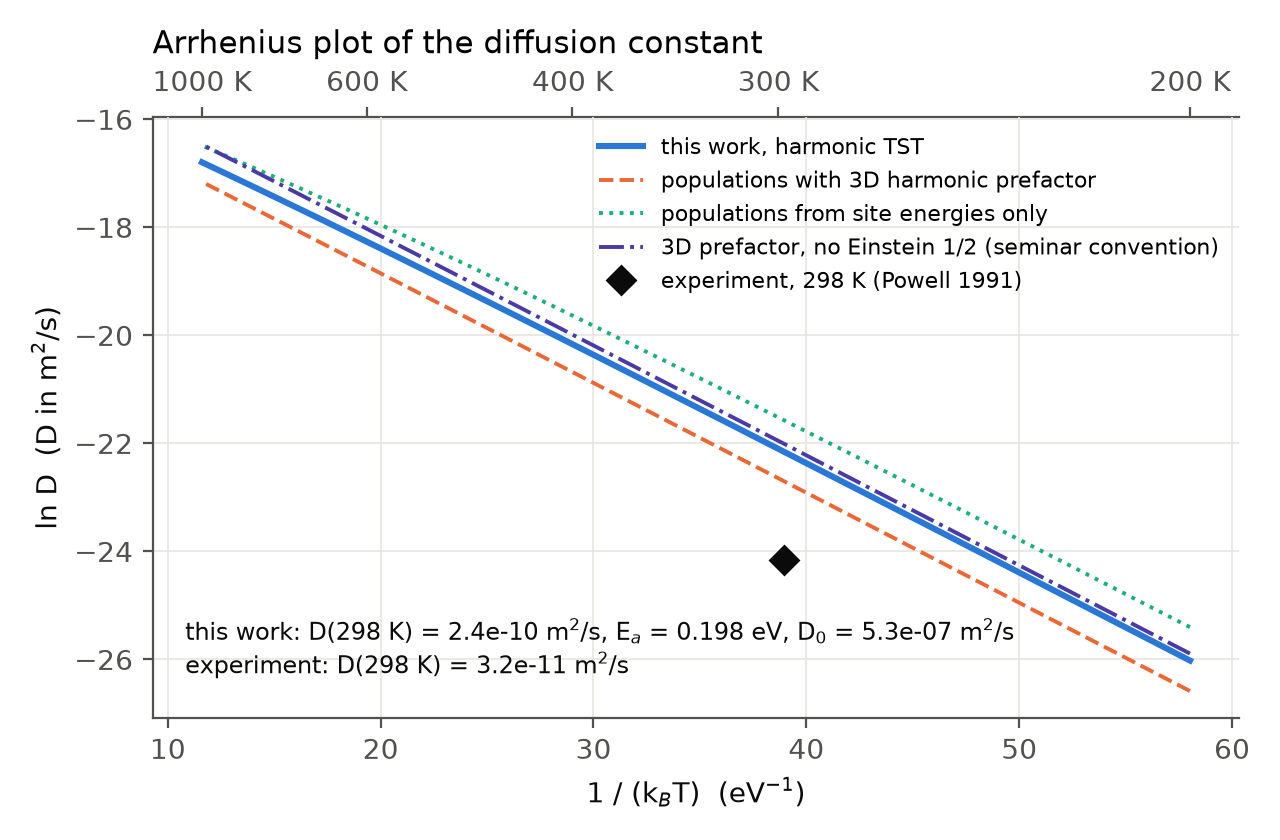
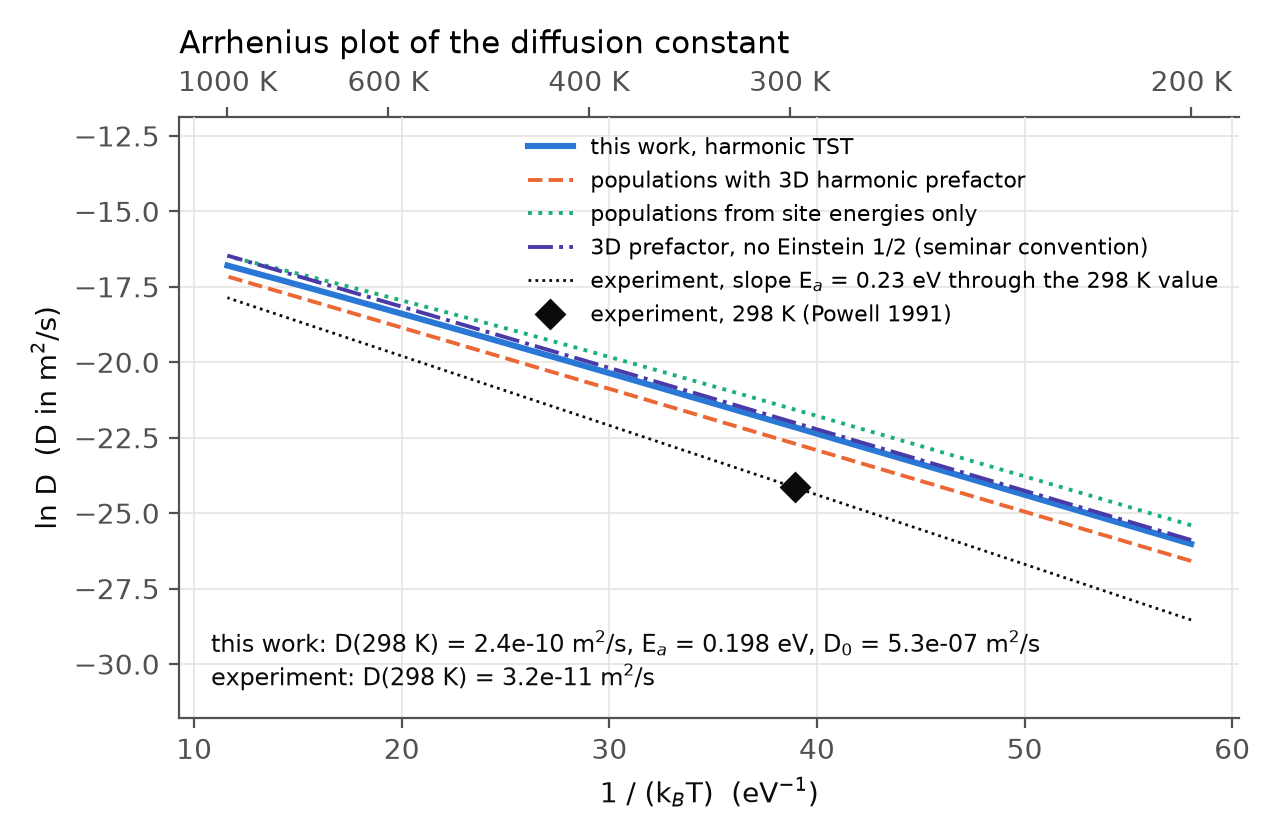
Barrier curvature, Wigner and well-mode quantum estimates, comparison with experiment split into barrier and prefactor

diff --git a/scripts/analyze_diffusion.py b/scripts/analyze_diffusion.py
@@ -19,6 +19,7 @@ from pdhdiff.constants import (
     A_PD_ANG,
     D_EXP_298K_M2_S,
     EA_EXP_EV,
+    KB_EV,
     MASS_D_AMU,
     MASS_H_AMU,
     MASS_T_AMU,
@@ -35,9 +36,12 @@ from pdhdiff.tst import (
     SiteModel,
     arrhenius_fit,
     attempt_frequency,
+    crossover_temperature,
     diffusion_constant,
     force_constant_si,
+    quantum_well_factor,
     vibrational_quantum_mev,
+    wigner_correction,
     with_mass,
 )
 
@@ -98,6 +102,63 @@ def sensitivity(
         "d_298K_single_factor_m2_s": single,
         "d_298K_min_m2_s": min(grid),
         "d_298K_max_m2_s": max(grid),
+    }
+
+
+def quantum_estimates(barrier, w_o: float, length: float) -> dict:
+    """Quantum corrections that the one-dimensional profile itself can supply.
+
+    The barrier curvature gives the imaginary frequency of the unstable mode and
+    with it the Wigner tunnelling factor and the crossover temperature; the
+    octahedral well frequency gives the quantum correction of the path mode. Both
+    factors multiply the O to T rate and therefore D, which is dominated by hops
+    out of the octahedral sites.
+    """
+    w_b = attempt_frequency(force_constant_si(barrier.k_ts_g_ev, length))
+    w_b_spline = attempt_frequency(force_constant_si(barrier.k_ts_spline_g_ev, length))
+    wigner = float(wigner_correction(w_b, 298.0))
+    well = float(quantum_well_factor(w_o, 298.0))
+    return {
+        "note": "Corrections to the classical O to T rate from the path mode only. Both are "
+        "larger than one, so they widen the gap to experiment; the zero-point energy of the "
+        "modes transverse to the path is not available from a one-dimensional profile.",
+        "barrier_curvature_eV_per_g2": {
+            "local_cubic": barrier.k_ts_g_ev,
+            "spline": barrier.k_ts_spline_g_ev,
+        },
+        "hbar_omega_barrier_meV": {
+            "local_cubic": vibrational_quantum_mev(w_b),
+            "spline": vibrational_quantum_mev(w_b_spline),
+        },
+        "crossover_temperature_K": crossover_temperature(w_b),
+        "wigner_factor_298K": wigner,
+        "wigner_factor_298K_spline_curvature": float(wigner_correction(w_b_spline, 298.0)),
+        "octahedral_well_factor_298K": well,
+        "combined_factor_298K": wigner * well,
+    }
+
+
+def experiment_decomposition(d_298: float, ea_fit: float, d0_fit: float) -> dict:
+    """Split the ratio to the measured D(298 K) into a barrier and a prefactor part.
+
+    The measured room-temperature value together with the quoted experimental
+    activation energy implies a prefactor ``D_0 = D exp(E_a / k_B T)``. The barrier
+    part is ``exp((E_a,exp - E_a,calc) / k_B T)`` at 298 K, the prefactor part is
+    the rest of the ratio.
+    """
+    kt = KB_EV * 298.0
+    ratio = d_298 / D_EXP_298K_M2_S
+    barrier_factor = float(np.exp((EA_EXP_EV - ea_fit) / kt))
+    d0_implied = float(D_EXP_298K_M2_S * np.exp(EA_EXP_EV / kt))
+    return {
+        "note": "Experimental prefactor implied by D(298 K) and the quoted activation energy; "
+        "it is not an independent measurement.",
+        "d0_experiment_implied_m2_s": d0_implied,
+        "d0_calc_over_implied": d0_fit / d0_implied,
+        "ea_deficit_meV": (EA_EXP_EV - ea_fit) * 1e3,
+        "factor_from_barrier_298K": barrier_factor,
+        "factor_from_prefactor_298K": ratio / barrier_factor,
+        "ratio_calc_over_experiment_298K": ratio,
     }
 
 
@@ -218,6 +279,8 @@ def main() -> None:
             ],
             "alternatives_d_298K_m2_s": {k: at(v, 298.0) for k, v in alternatives.items()},
         },
+        "comparison_with_experiment": experiment_decomposition(at(primary, 298.0), ea_fit, d0_fit),
+        "quantum_estimates": quantum_estimates(barrier, w_o, length),
         "sensitivity": sensitivity(model, barrier, well_o, well_t, float(e[-1]), length, geo),
         "isotopes_classical": {
             "note": "Classical harmonic TST with the same profile: only the attempt "
@@ -289,6 +352,18 @@ def main() -> None:
     )
     for name, res in alternatives.items():
         print(f"  alternative {name}: D(298 K) = {at(res, 298):.3e} m^2/s")
+    qe = metrics["quantum_estimates"]
+    print(
+        f"barrier mode: hbar w_b = {qe['hbar_omega_barrier_meV']['local_cubic']:.1f} meV, "
+        f"crossover T = {qe['crossover_temperature_K']:.0f} K, Wigner factor at 298 K = "
+        f"{qe['wigner_factor_298K']:.2f}, O well factor = {qe['octahedral_well_factor_298K']:.2f}"
+    )
+    ce = metrics["comparison_with_experiment"]
+    print(
+        f"ratio to experiment {ce['ratio_calc_over_experiment_298K']:.1f} = "
+        f"{ce['factor_from_barrier_298K']:.1f} (barrier) x "
+        f"{ce['factor_from_prefactor_298K']:.1f} (prefactor)"
+    )
     print(
         "detailed-balance ratio at 300 K: "
         f"{metrics['diffusion']['detailed_balance_ratio_300K']:.3f}"

diff --git a/src/pdhdiff/plotting.py b/src/pdhdiff/plotting.py
@@ -15,7 +15,13 @@ matplotlib.use("Agg")
 import matplotlib.pyplot as plt  # noqa: E402
 import numpy as np  # noqa: E402
 
-from pdhdiff.constants import D_EXP_298K_M2_S, HARTREE_EV, KB_EV  # noqa: E402
+from pdhdiff.constants import (  # noqa: E402
+    BOHR_ANG,
+    D_EXP_298K_M2_S,
+    EA_EXP_EV,
+    HARTREE_EV,
+    KB_EV,
+)
 from pdhdiff.profile import BarrierFit, WellFit, spline_curve  # noqa: E402
 from pdhdiff.tst import DiffusionResult  # noqa: E402
 
@@ -181,6 +187,9 @@ def plot_arrhenius(
 ):
     """``ln D`` against ``1 / k_B T`` with the experimental room-temperature value.
 
+    The experimental line is the measured 298 K value continued with the quoted
+    activation energy, not an independent set of measurements.
+
     Args:
         result: Primary diffusion result.
         ea_fit_ev: Fitted activation energy of the primary curve.
@@ -210,6 +219,15 @@ def plot_arrhenius(
                 label=name,
             )
     x298 = 1 / (KB_EV * 298.0)
+    # the measured point continued with the quoted experimental activation energy
+    ax.plot(
+        x,
+        np.log(D_EXP_298K_M2_S) - EA_EXP_EV * (x - x298),
+        color=INK,
+        lw=1.0,
+        ls=(0, (1, 1.5)),
+        label=f"experiment, slope E$_a$ = {EA_EXP_EV:.2f} eV through the 298 K value",
+    )
     ax.plot(
         x298,
         np.log(D_EXP_298K_M2_S),
@@ -222,7 +240,7 @@ def plot_arrhenius(
     d298 = float(np.interp(298.0, result.temperature_k, result.d_m2_s))
     ax.text(
         0.03,
-        0.06,
+        0.04,
         f"this work: D(298 K) = {d298:.1e} m$^2$/s, E$_a$ = {ea_fit_ev:.3f} eV, "
         f"D$_0$ = {d0_fit:.1e} m$^2$/s\nexperiment: D(298 K) = {D_EXP_298K_M2_S:.1e} m$^2$/s",
         transform=ax.transAxes,
@@ -238,6 +256,9 @@ def plot_arrhenius(
     sec.set_xticks(1 / (KB_EV * t_ticks))
     sec.set_xticklabels([f"{t:d} K" for t in t_ticks])
     sec.tick_params(colors=INK2)
+    # room above for the legend and below for the summary text
+    lo, hi = ax.get_ylim()
+    ax.set_ylim(lo - 0.2 * (hi - lo), hi + 0.3 * (hi - lo))
     ax.legend(loc="upper right", fontsize=8)
     ax.set_title("Arrhenius plot of the diffusion constant", loc="left", fontsize=11)
     return fig
@@ -515,7 +536,7 @@ def plot_relaxation_diagnostics(hist_t, hist_o, k_radial_ev_ang2, r_zero, lam_ro
     """
     _style()
     fig, (ax1, ax2) = plt.subplots(1, 2, figsize=(12.0, 4.2))
-    mh_to_ev_a = 1e-3 * HARTREE_EV / 0.529177210903
+    mh_to_ev_a = 1e-3 * HARTREE_EV / BOHR_ANG
     for hist, col, label in (
         (hist_t, ORANGE, "tetrahedral cage atom PD03"),
         (hist_o, BLUE, "octahedral cage atom PD04"),
@@ -523,7 +544,10 @@ def plot_relaxation_diagnostics(hist_t, hist_o, k_radial_ev_ang2, r_zero, lam_ro
         r = np.array([h["distance_to_h_ang"] for h in hist])
         f = np.array([h["radial_force_outward_mh_bohr"] for h in hist]) * mh_to_ev_a
         ax1.plot(r, f, "o-", color=col, lw=1.6, ms=6, label=label)
-        for h, ri, fi in zip(hist, r, f):
+        # the octahedral cage barely moves; label only its end points to keep them legible
+        labelled = range(len(hist)) if hist is hist_t else (0, len(hist) - 1)
+        for i in labelled:
+            h, ri, fi = hist[i], r[i], f[i]
             ax1.annotate(
                 str(h["nfi"]),
                 (ri, fi),

diff --git a/src/pdhdiff/tst.py b/src/pdhdiff/tst.py
@@ -14,6 +14,10 @@ where ``P_i`` are equilibrium site populations and the geometric sums run over
 the hop targets of a site. The factor 1/2 is the Einstein relation
 ``<dr (x) dr> = 2 D t``; the project description prints the expression without
 it and the code can reproduce that convention with ``einstein_half=False``.
+
+The rates are classical. :func:`wigner_correction`, :func:`crossover_temperature`
+and :func:`quantum_well_factor` estimate the quantum corrections that the path mode
+alone can supply; they are reported next to the classical result, not folded into it.
 """
 
 from __future__ import annotations
@@ -54,6 +58,51 @@ def jump_rate(omega: float, ea_ev: float, temperature_k) -> np.ndarray:
     """Harmonic TST rate per pathway, ``(omega / 2 pi) exp(-E_a / k_B T)``, in 1/s."""
     t = np.asarray(temperature_k, dtype=float)
     return omega / (2 * np.pi) * np.exp(-ea_ev / (KB_EV * t))
+
+
+def wigner_correction(omega_barrier: float, temperature_k) -> np.ndarray:
+    """Wigner tunnelling factor ``1 + (hbar omega_b / k_B T)^2 / 24`` of a parabolic barrier.
+
+    The leading quantum correction to the classical rate of crossing a barrier
+    whose unstable mode has the imaginary frequency ``i omega_b``. It is valid for
+    shallow tunnelling, well above :func:`crossover_temperature`.
+
+    Args:
+        omega_barrier: Magnitude of the imaginary barrier frequency in rad/s.
+        temperature_k: Temperature or array of temperatures in kelvin.
+
+    Returns:
+        The factor multiplying the classical rate, always larger than one.
+    """
+    t = np.asarray(temperature_k, dtype=float)
+    return 1.0 + (HBAR_EV_S * omega_barrier / (KB_EV * t)) ** 2 / 24.0
+
+
+def crossover_temperature(omega_barrier: float) -> float:
+    """Temperature ``hbar omega_b / (2 pi k_B)`` below which tunnelling dominates, in kelvin."""
+    return HBAR_EV_S * omega_barrier / (2 * np.pi * KB_EV)
+
+
+def quantum_well_factor(omega: float, temperature_k) -> np.ndarray:
+    """Ratio of the quantum to the classical harmonic rate for the well mode alone.
+
+    Replacing the classical partition function ``k_B T / hbar omega`` of the mode
+    along the path by the quantum one ``1 / (2 sinh(hbar omega / 2 k_B T))``, with
+    the barrier still measured from the bottom of the well, multiplies the rate by
+    ``sinh(x) / x`` with ``x = hbar omega / 2 k_B T``. The factor is larger than one
+    because the zero-point energy of this mode is lost at the saddle. The modes
+    transverse to the path, which are stiffer at the saddle than in the well and act
+    in the opposite direction, are not contained in a one-dimensional profile.
+
+    Args:
+        omega: Angular frequency of the well along the path in rad/s.
+        temperature_k: Temperature or array of temperatures in kelvin.
+
+    Returns:
+        The factor multiplying the classical rate.
+    """
+    x = HBAR_EV_S * omega / (2 * KB_EV * np.asarray(temperature_k, dtype=float))
+    return np.sinh(x) / x
 
 
 @dataclass

diff --git a/tests/test_profile_tst.py b/tests/test_profile_tst.py
@@ -18,10 +18,13 @@ from pdhdiff.tst import (
     SiteModel,
     arrhenius_fit,
     attempt_frequency,
+    crossover_temperature,
     diffusion_constant,
     force_constant_si,
     jump_rate,
+    quantum_well_factor,
     site_populations,
+    wigner_correction,
 )
 
 
@@ -107,3 +110,45 @@ def test_diffusion_regression(metrics):
     assert abs(d["detailed_balance_ratio_300K"] - 1.0) < 1e-6
     table = {row["T_K"]: row["d_m2_s"] for row in d["table"]}
     assert table[200] < table[300] < table[600] < table[1000]
+
+
+def test_barrier_curvature_of_an_exact_cubic():
+    # E = 3 g^2 - 2 g^3 has its maximum at g = 1 with E'' = -6
+    g = np.linspace(0.0, 1.5, 16)
+    fit = locate_barrier(g, 3 * g**2 - 2 * g**3)
+    assert fit.g_ts == pytest.approx(1.0, abs=1e-3)
+    assert fit.k_ts_g_ev == pytest.approx(6.0, rel=1e-3)  # maximum located on a grid
+    assert fit.k_ts_spline_g_ev == pytest.approx(6.0, rel=1e-3)
+
+
+def test_quantum_factors_have_the_right_limits():
+    omega = 1.2e14  # hbar omega = 79 meV
+    # both corrections vanish in the classical limit and exceed one otherwise
+    assert wigner_correction(omega, 1e6) == pytest.approx(1.0, abs=1e-6)
+    assert quantum_well_factor(omega, 1e6) == pytest.approx(1.0, abs=1e-6)
+    assert wigner_correction(omega, 298.0) > 1.0
+    assert quantum_well_factor(omega, 298.0) > 1.0
+    # at the crossover temperature hbar omega / k_B T = 2 pi
+    t_c = crossover_temperature(omega)
+    assert wigner_correction(omega, t_c) == pytest.approx(1.0 + (2 * np.pi) ** 2 / 24.0)
+    # to second order in hbar omega / k_B T the well factor is 1 + x^2 / 24 as well
+    x = 0.05
+    t = 6.582119569e-16 * omega / (KB_EV * x)
+    assert quantum_well_factor(omega, t) - 1.0 == pytest.approx(x**2 / 24.0, rel=1e-3)
+
+
+def test_quantum_estimates_and_decomposition_in_metrics(metrics):
+    qe = metrics["quantum_estimates"]
+    assert 60.0 < qe["hbar_omega_barrier_meV"]["local_cubic"] < 95.0
+    assert 60.0 < qe["hbar_omega_barrier_meV"]["spline"] < 95.0
+    assert qe["crossover_temperature_K"] < 200.0  # below the temperature grid of the analysis
+    assert qe["combined_factor_298K"] == pytest.approx(
+        qe["wigner_factor_298K"] * qe["octahedral_well_factor_298K"]
+    )
+    ce = metrics["comparison_with_experiment"]
+    assert ce["factor_from_barrier_298K"] * ce["factor_from_prefactor_298K"] == pytest.approx(
+        ce["ratio_calc_over_experiment_298K"]
+    )
+    assert ce["ratio_calc_over_experiment_298K"] == pytest.approx(
+        metrics["diffusion"]["ratio_calc_over_experiment_298K"]
+    )

diff --git a/src/pdhdiff/profile.py b/src/pdhdiff/profile.py
@@ -60,7 +60,7 @@ class PathPoint:
     finished: bool
 
 
-def _ideal_pd_positions_ang(strc, a: float) -> np.ndarray:
+def _ideal_pd_positions_ang(strc) -> np.ndarray:
     return strc.cartesian()[[i for i, s in enumerate(strc.species) if s.upper() == "PD"]]
 
 
@@ -96,7 +96,7 @@ def analyse_point(point_dir: Path, a: float = A_PD_ANG) -> PathPoint:
     tri = np.array([prot.atom(n).position for n in TRIANGLE_LABELS])
     g_relaxed = reaction_coordinate(h_relaxed / a, tri / a)
 
-    pd_ideal = _ideal_pd_positions_ang(strc, a)
+    pd_ideal = _ideal_pd_positions_ang(strc)
     pd_relaxed = np.array([at.position for at in prot.atoms if at.element == "Pd"])
     disp = pd_relaxed - pd_ideal
     disp -= np.round(disp / (2 * a)) * 2 * a  # minimum image in the 2x2x2 cell
@@ -173,6 +173,10 @@ class BarrierFit:
         e_ts_spline_ev: Maximum energy from the spline.
         e_raw_max_ev: Highest calculated point.
         g_raw_max: Reaction coordinate of the highest calculated point.
+        k_ts_g_ev: Magnitude of the (negative) curvature of the local cubic at its
+            maximum, in eV per unit ``g^2``. It sets the imaginary frequency of the
+            unstable mode used in the tunnelling estimate.
+        k_ts_spline_g_ev: The same from the spline through all points.
     """
 
     g_ts: float
@@ -181,6 +185,8 @@ class BarrierFit:
     e_ts_spline_ev: float
     e_raw_max_ev: float
     g_raw_max: float
+    k_ts_g_ev: float
+    k_ts_spline_g_ev: float
 
 
 def locate_barrier(g: np.ndarray, e_ev: np.ndarray, n_local: int = 4) -> BarrierFit:
@@ -217,6 +223,8 @@ def locate_barrier(g: np.ndarray, e_ev: np.ndarray, n_local: int = 4) -> Barrier
         e_ts_spline_ev=float(sv[k]),
         e_raw_max_ev=float(e_ev[i_max]),
         g_raw_max=float(g[i_max]),
+        k_ts_g_ev=float(-np.polyval(np.polyder(coeff, 2), grid[j])),
+        k_ts_spline_g_ev=float(-spline(grid_all[k], 2)),
     )
 
 
